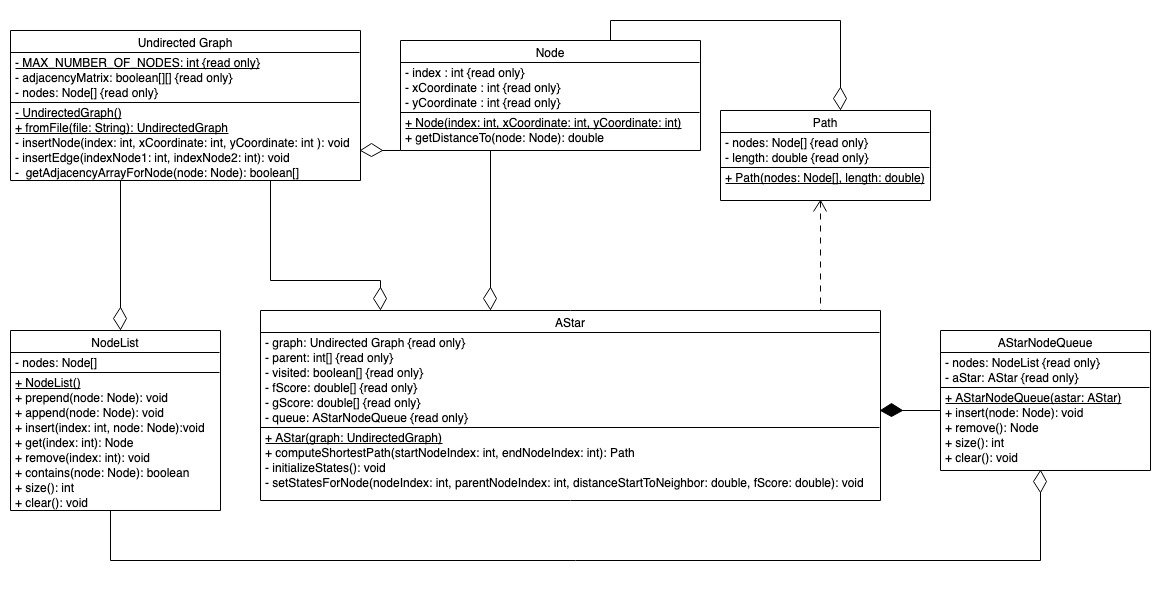
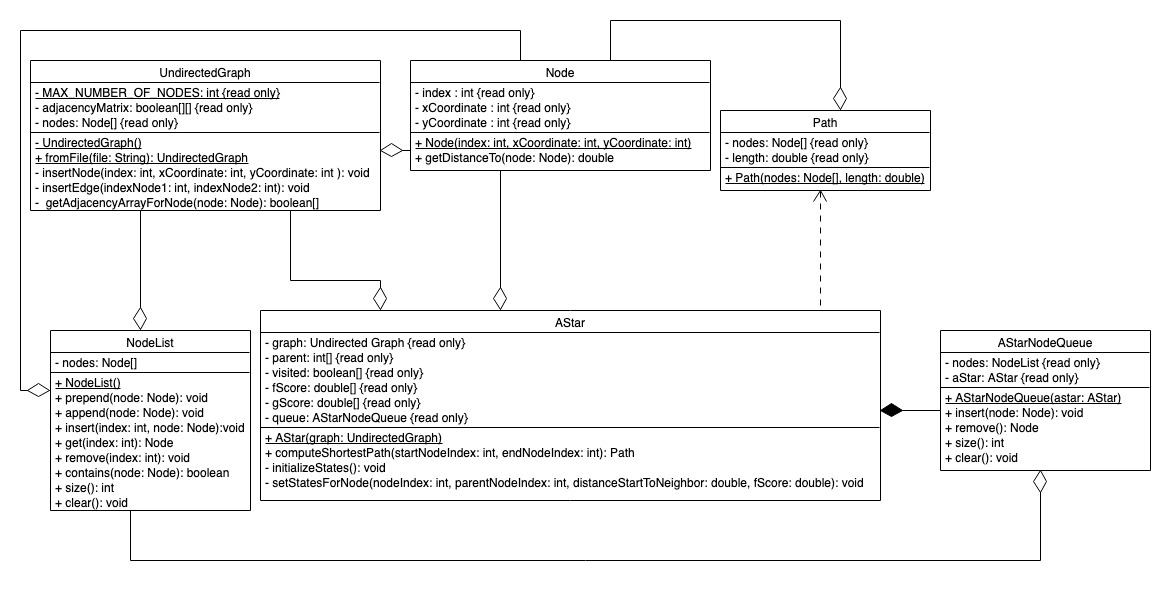
readMe stuff

diff --git a/src/main/java/astern/README.md b/src/main/java/astern/README.md
@@ -20,8 +20,13 @@ Als Ergebnis soll unsere Anwendung die Länge des kürzesten Weges und den Weg s
 
 ![Klassendiagramm](klassendiagramm.png)
 
-In unserer Implementierung sind Graph und Algorithmus voneinander getrennt. Die unterrichtete Graph Klasse enthält Knoten (Node), welche jeweils für die Ortschaften stehen. Jeder Knoten hat einen einzigartigen Identifier, der dafür sorgt, dass es keine doppelten Knoten gibt, und einen x und y Wert welche bestimmen, wo sich der Knoten befindet. 
+In unserer Implementierung sind Graph und Algorithmus voneinander getrennt. Die **UndirectedGraph** Klasse enthält Knoten (Node), welche jeweils für die Ortschaften stehen. Jeder Knoten hat einen einzigartigen Identifier, der dafür sorgt, dass es keine doppelten Knoten gibt, und einen x und y Wert welche bestimmen, wo sich der Knoten befindet. 
 Diese Knoten sind verbunden durch Kanten, welche die Straßen zwischen den Knoten bzw. Ortschaften bilden, sie werden als Adjazenzmatrix dargestellt.
+
+**NodeList** enthält ein Array an Knoten, es handelt sich bei dieser Klass um eine eigene Impelmentierung einer nicht generischen ArrayList. Diese Datenstruktur haben wir gewählt, da dort schnelle Zugriffe sind und die Länge flexibel ist. 
+Das AStar Objekt wird mit dem Graphen erzeugt, darauf kann kann der kürzeste Weg berechnet und als Path Objekt zurück gibt. Auf dem gleichen AStar Objekt können meherer verschiedene Wege berechnet werden, ohne das Objekt neu erstellen zu müssen.
+**AStar** beinhaltet die **AStarNodeQueue**, in dieser werden die Knoten nach ihrem fScore sortiert in die Queue eingefügt.  Der Grund für die Wahl der Datenstruktur hier war, dass wir immer nur auf das erste Element zugreifen und dieses sortiert einfügen wollen. Die NodeList, die dem Ganzen zugrunde liegt, ermöglicht außerdem eine flexible Länge.
+In der **Path** Klasse werden die Knoten mit der Länge des Weges in einem Pfad gespeichert.
 
 ## 3. Heuristik
 
